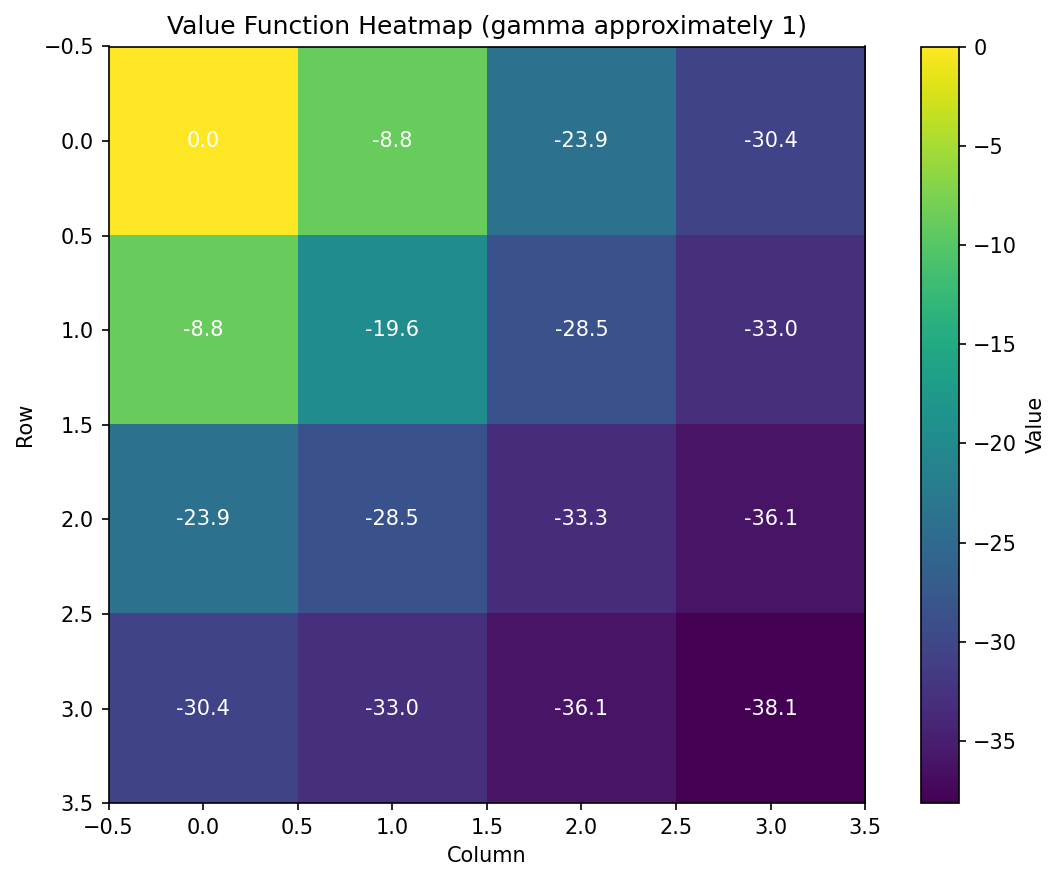
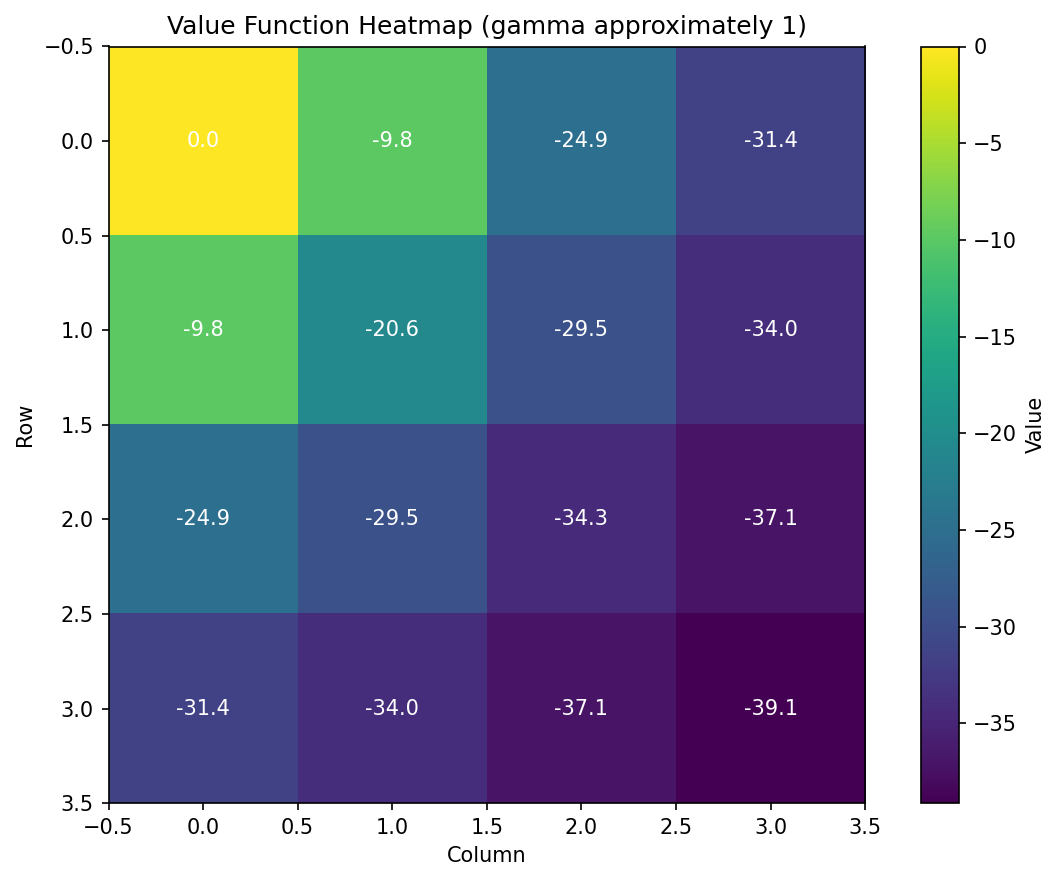
small updates

diff --git a/Homework3.py b/Homework3.py
@@ -50,7 +50,7 @@ class GridWorldMDP:
             new_state = self.current_state
         
         if self.current_state == self.goal_state:
-            reward = 20
+            reward = 20 - 1
             done = True
         else:
             reward = -1
@@ -119,7 +119,6 @@ def policy_evaluation_inplace(env, policy, gamma=1.0, theta=0.01, max_iterations
 
 def policy_evaluation_two_array(env, policy, gamma=1.0, theta=0.01, max_iterations=10000):
     V_old = defaultdict(float)
-    #set goal to be 0
     V_old[env.goal_state] = 0
     iterations = 0
     
